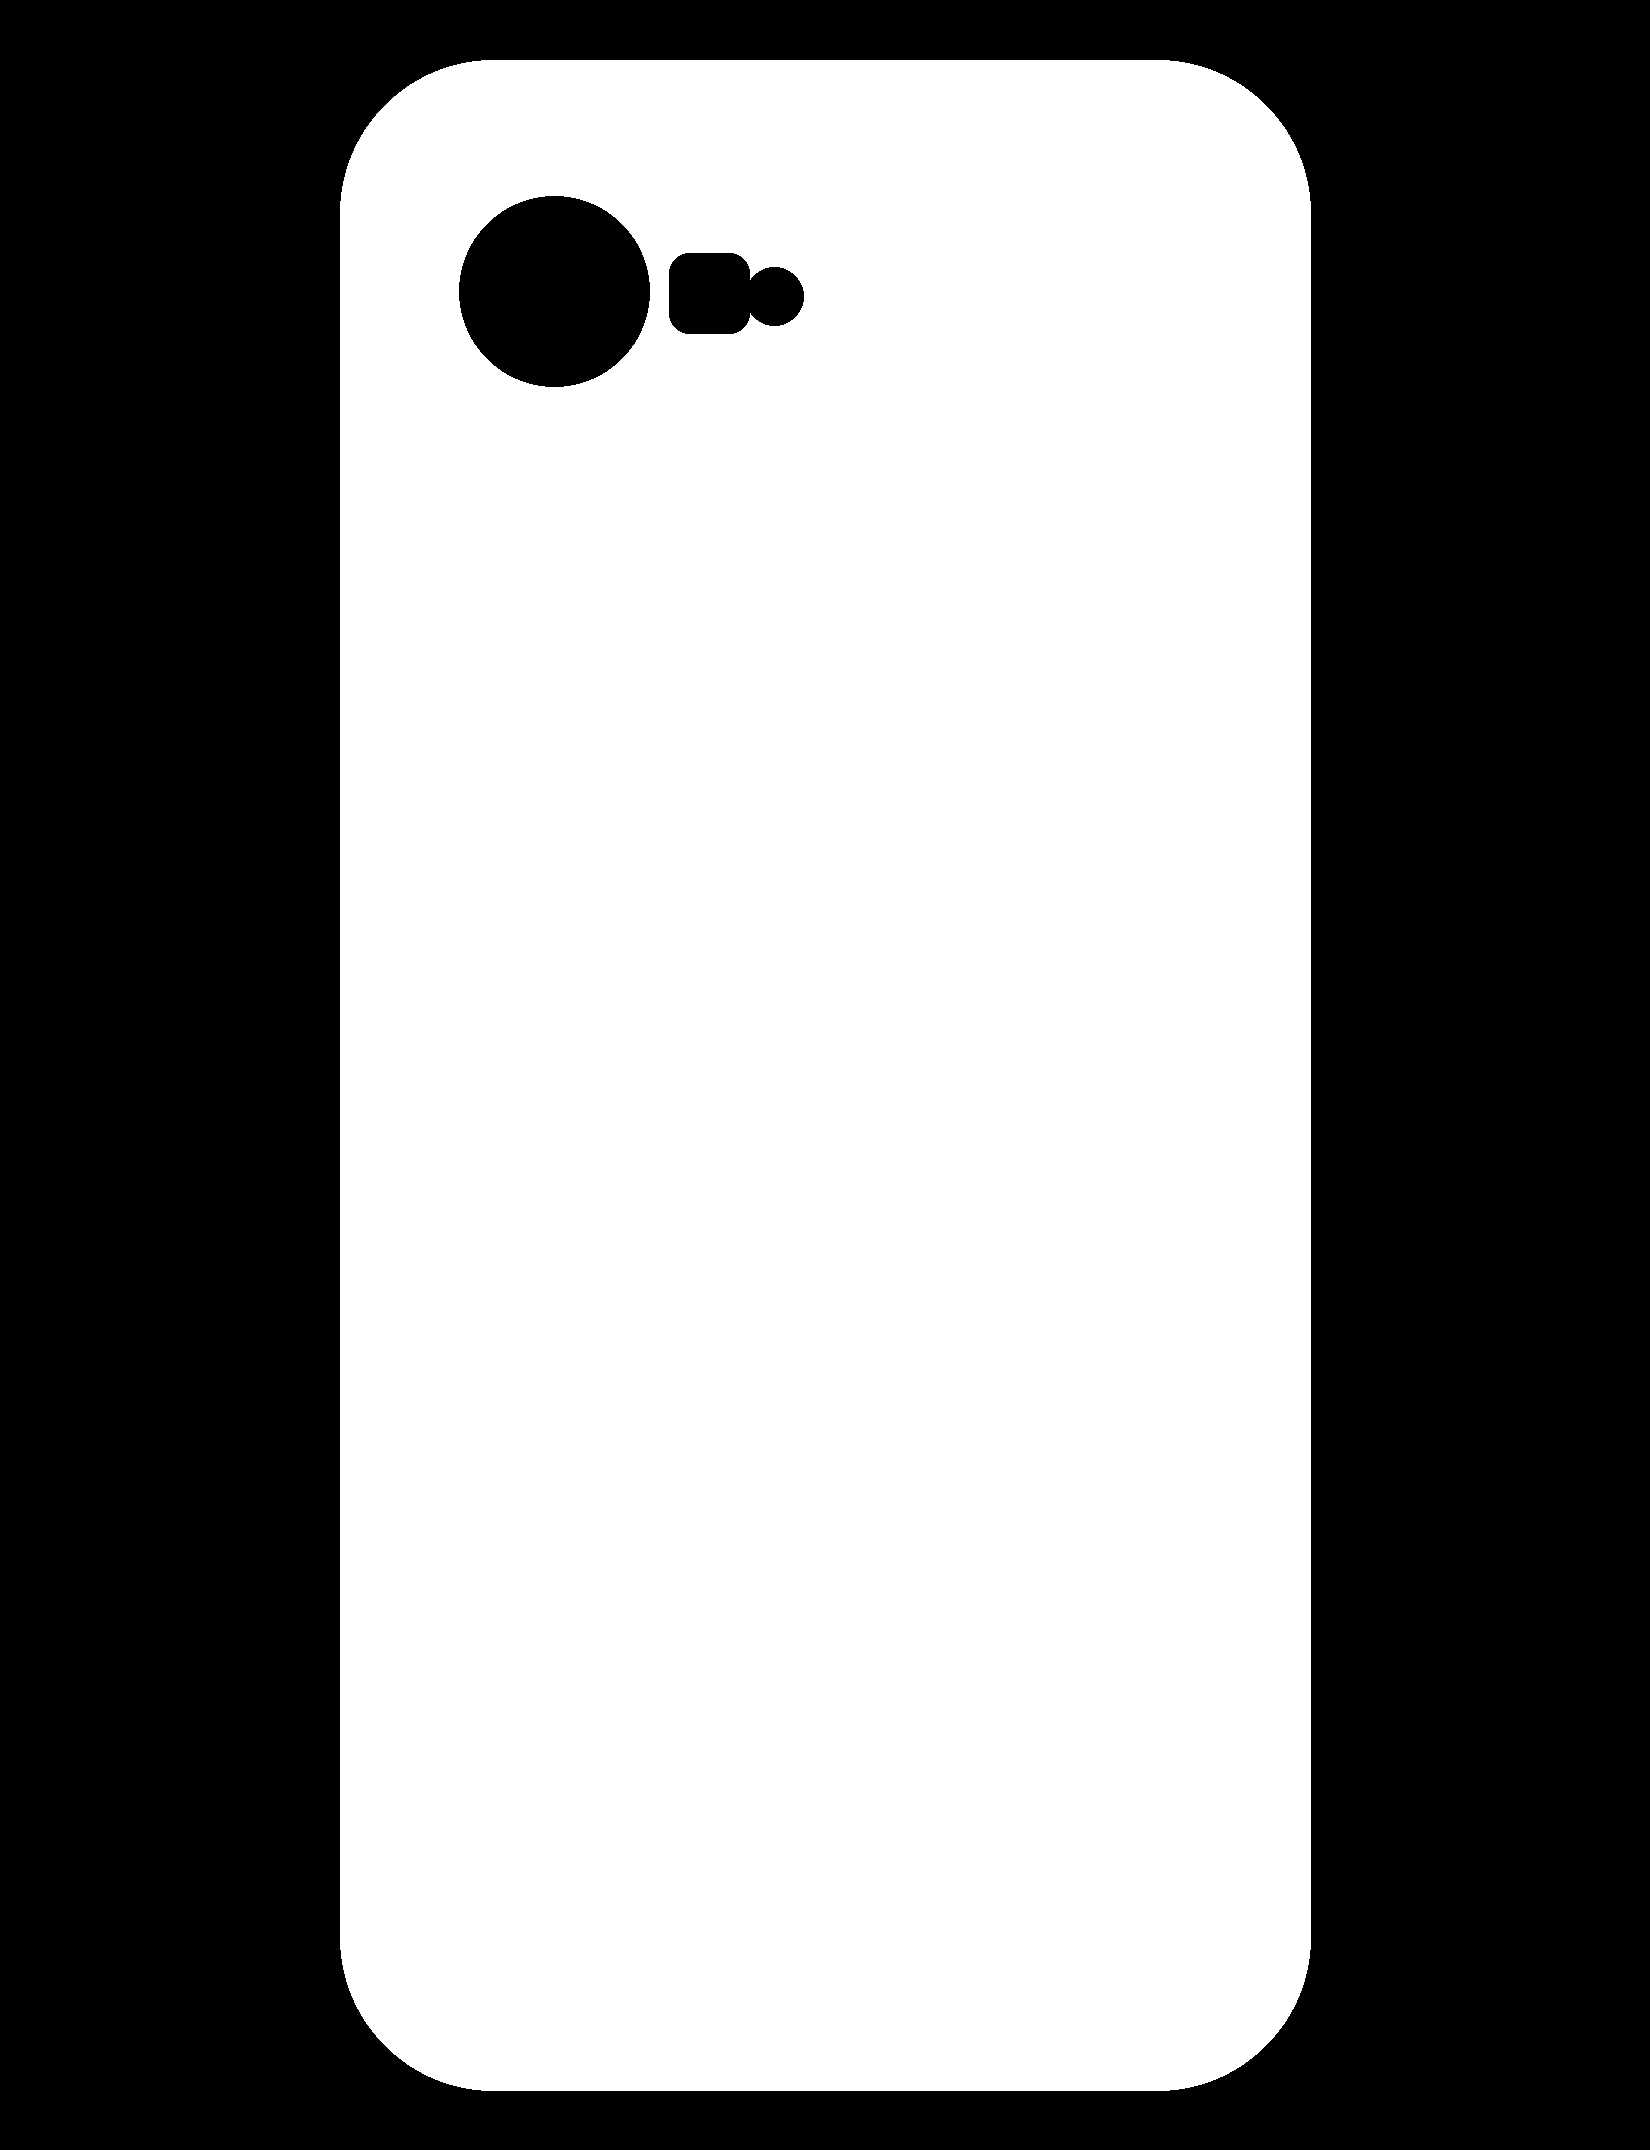
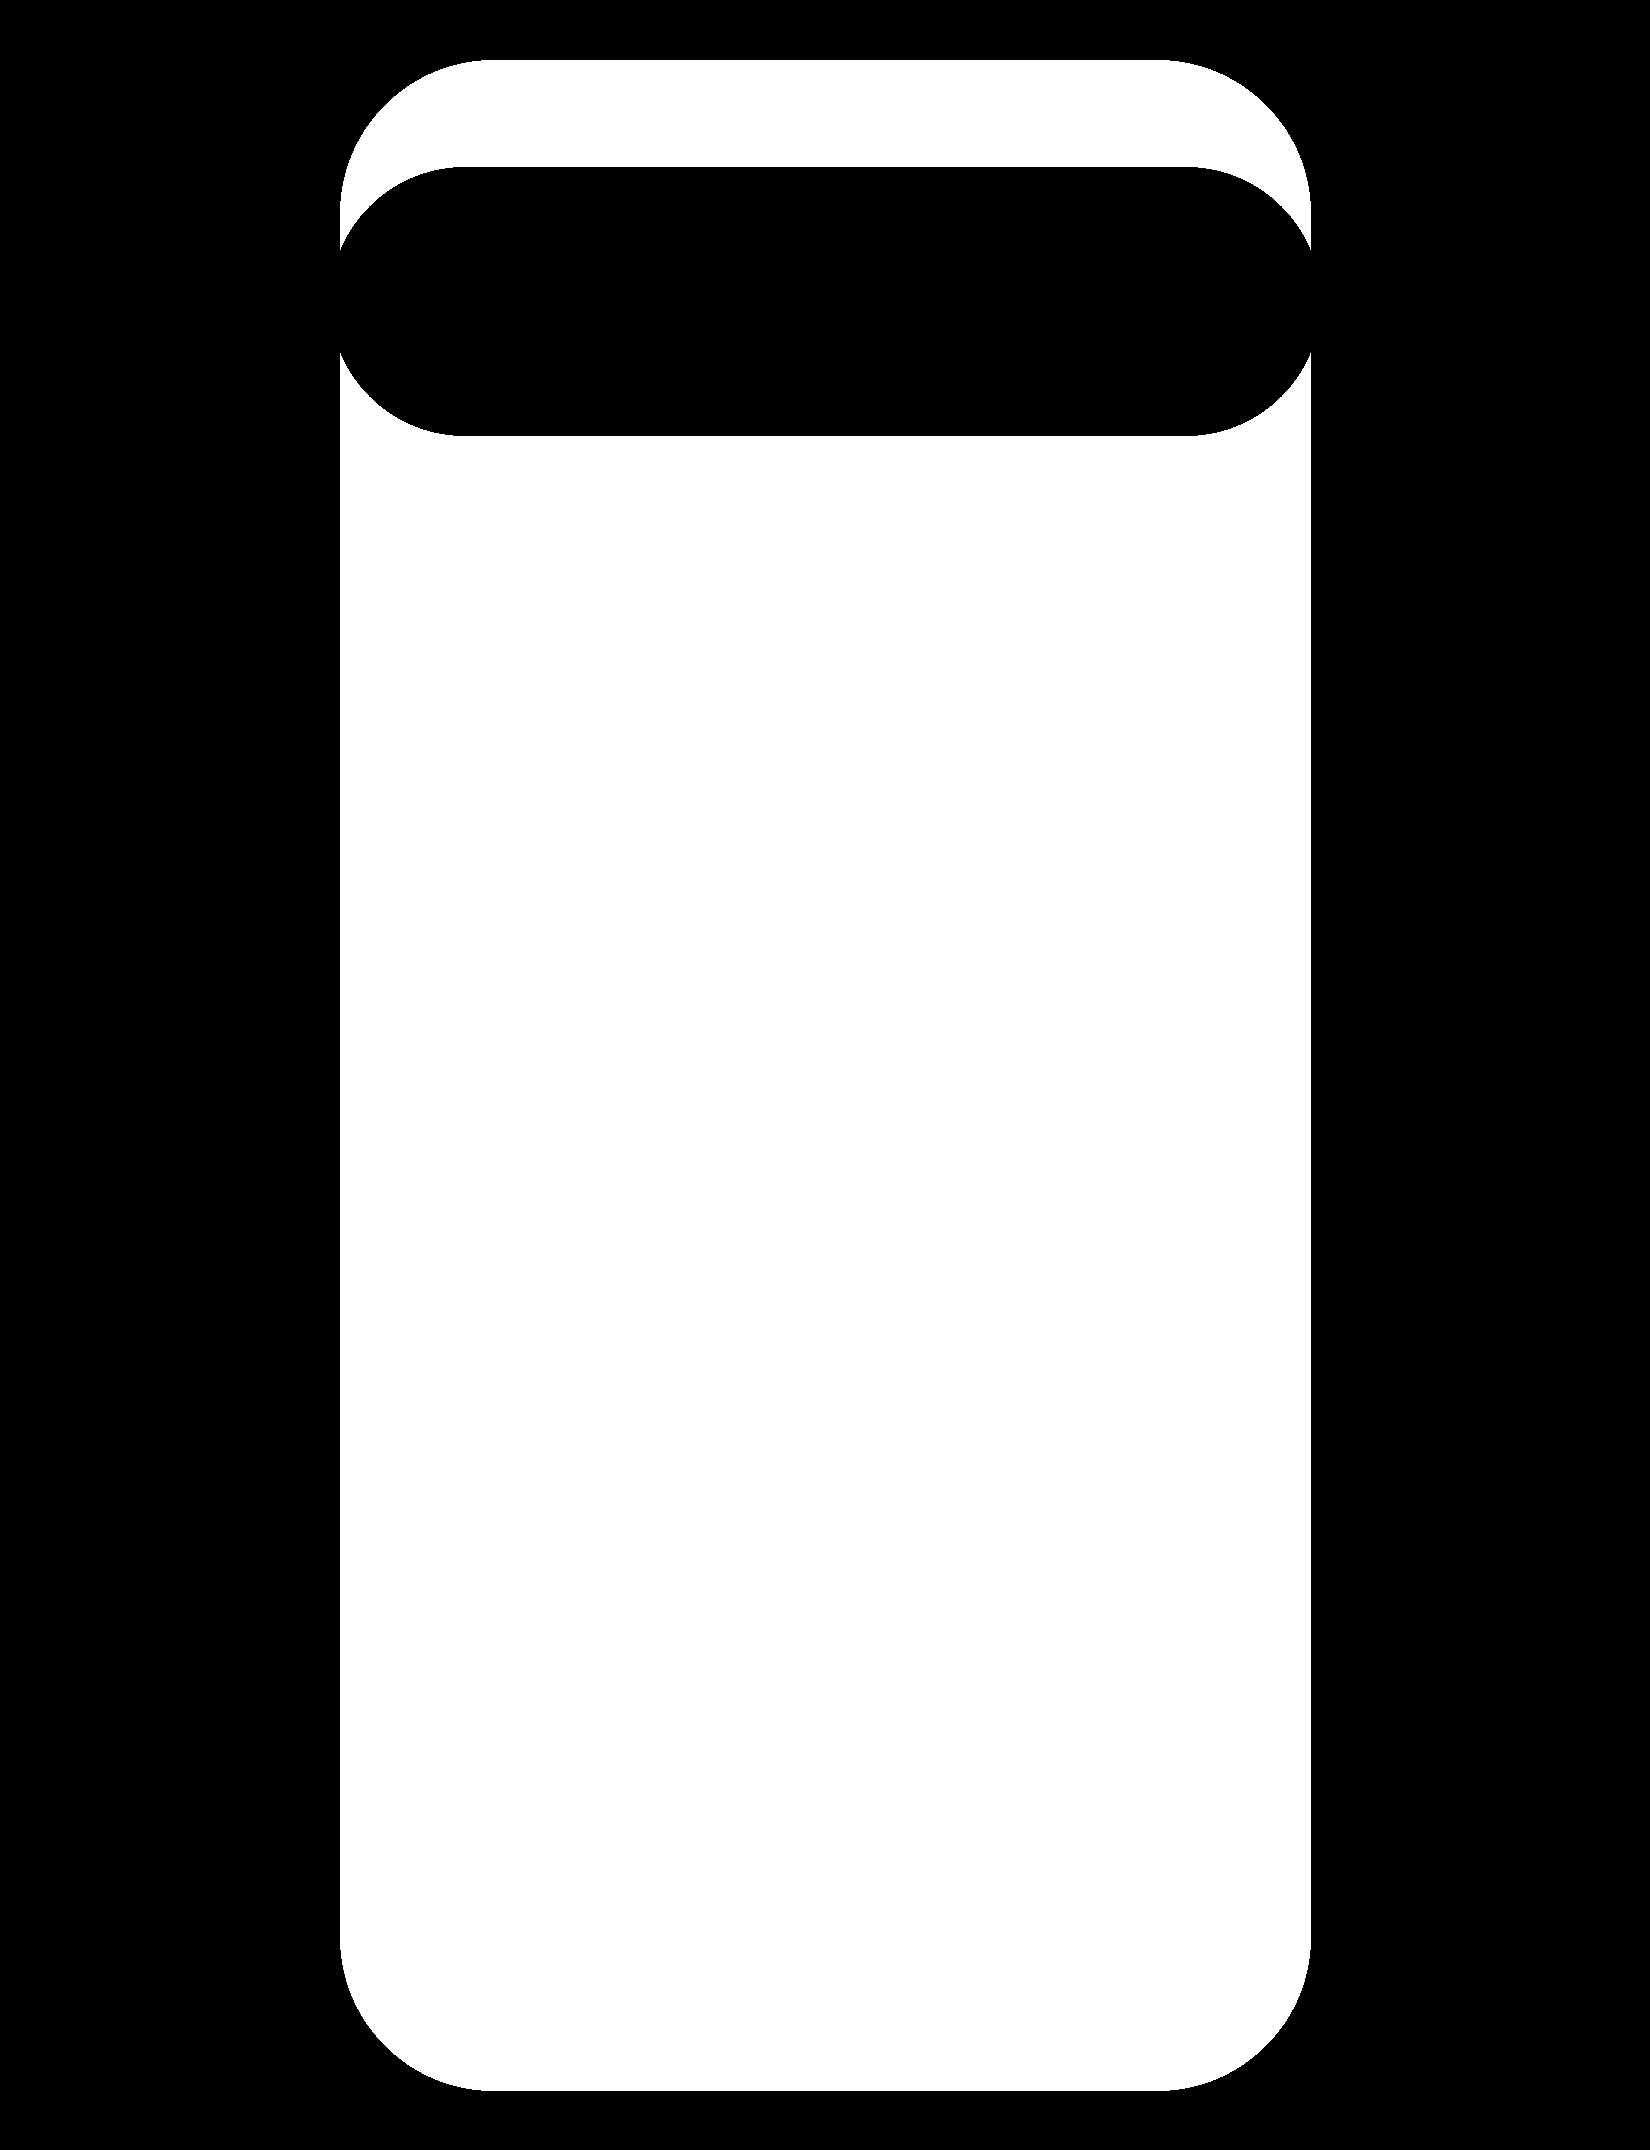
fix(p4b): widen iPhone Air plateau to full rear width (edge-to-edge)
- Plateau now spans essentially the full case width (6px side inset)
- Lens positioned left, flash center-right, mic far right — all within plateau
- Print mask excludes the entire plateau area (raised surface = no print)
- camera_region covers full plateau geometry
- Contract v1 schema unchanged — template data only
- Other devices (17e, 17) untouched

Changed region(s): [[0.1855, 0.0623, 0.8036, 0.2181]]

diff --git a/scripts/generate_p4b_templates.py b/scripts/generate_p4b_templates.py
@@ -121,6 +121,18 @@ def generate_device_template(config):
         d = ImageDraw.Draw(mask)
         pad = cam_config["exclude_pad"]
 
+        # If a plateau exists, exclude the entire plateau region from print
+        # (the raised platform surface is not a good print target)
+        if "plateau" in cam_config:
+            plat = cam_config["plateau"]
+            plat_h = plat["bottom"] - plat["top"]
+            plat_r = plat_h // 2
+            d.rounded_rectangle(
+                [plat["left"], plat["top"], plat["right"], plat["bottom"]],
+                radius=plat_r,
+                fill=0
+            )
+
         for comp in cam_config["components"]:
             if comp["type"] == "lens":
                 r = comp["radius"] + comp.get("ring_width", 0) + pad
@@ -614,32 +626,36 @@ def _camera_config(camera_type, case_x, case_y, case_w, case_h):
         }
 
     elif camera_type == "air_plateau":
-        # iPhone Air: single lens + flash on a horizontally extended plateau
-        # The camera sits on a raised plateau that extends side-to-side
-        # across the upper-left portion of the phone
+        # iPhone Air: single lens + flash + mic on a full-width raised plateau
+        # The plateau extends essentially edge-to-edge across the top of the rear
+        # — matching Apple's iPhone Air design language.
         lens_radius = 65      # ~5.0mm main lens
         ring_width = 12
-        plateau_pad = 22      # padding around lens+flash for plateau
+        plateau_v_pad = 22    # vertical padding (top/bottom of plateau)
 
-        # Lens position: upper-left region
-        lens_cx = case_x + int(case_w * 0.23)
-        lens_cy = case_y + int(case_h * 0.12)
+        # Plateau spans nearly the full case width, edge-to-edge
+        # Small inset from case sides for visual naturalness
+        plateau_side_inset = 6
+        plateau_left = case_x + plateau_side_inset
+        plateau_right = case_x + case_w - plateau_side_inset
 
-        # Flash: to the right of lens, on the same plateau
-        flash_cx = lens_cx + 155
-        flash_cy = lens_cy + 2
+        # Plateau vertical position: across the top portion of the phone
+        plateau_top = case_y + int(case_h * 0.06)
+        plateau_bottom = case_y + int(case_h * 0.19)
+
+        # Lens position: left side within the plateau
+        lens_cx = case_x + int(case_w * 0.22)
+        lens_cy = (plateau_top + plateau_bottom) // 2
+
+        # Flash: right-center within the plateau
+        flash_cx = case_x + int(case_w * 0.62)
+        flash_cy = lens_cy - 4
         flash_size = 44
 
-        # Mic: to the right of flash
-        mic_cx = flash_cx + 65
-        mic_cy = lens_cy + 5
+        # Mic: far right within the plateau
+        mic_cx = case_x + int(case_w * 0.82)
+        mic_cy = lens_cy + 2
         mic_radius = 11
-
-        # Plateau boundaries (for overlay rendering)
-        plateau_left = lens_cx - lens_radius - ring_width - plateau_pad
-        plateau_right = mic_cx + mic_radius + plateau_pad
-        plateau_top = lens_cy - lens_radius - ring_width - plateau_pad
-        plateau_bottom = lens_cy + lens_radius + ring_width + plateau_pad
 
         return {
             "exclude_pad": 18,
@@ -810,7 +826,7 @@ IPHONE_AIR_CONFIG = {
     "canvas_h": 2150,
     "provenance": {
         "verified_device_dimensions": "156.2 x 74.7 x 5.64 mm (Apple official spec — apple.com/iphone-air/specs/)",
-        "estimated_device_anchors": "single main lens + flash + mic on horizontally extended raised plateau (side-to-side plateau), corner radius, button positions (visually estimated from Apple product imagery)",
+        "estimated_device_anchors": "single main lens + flash + mic on full-width raised plateau (edge-to-edge across top rear), corner radius, button positions (visually estimated from Apple product imagery)",
         "assumed_case_parameters": "1.2mm case thickness, 1.2mm print bezel (slim prototype case assumptions for Air)",
         "supplier_geometry": "none — not a production SKU template",
     },
